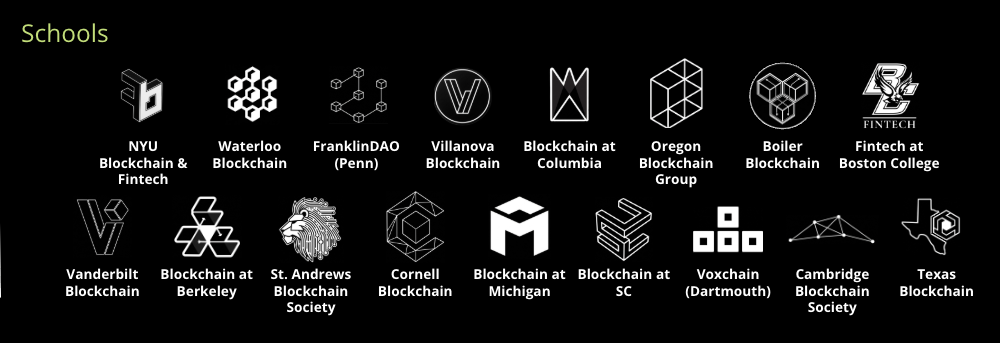
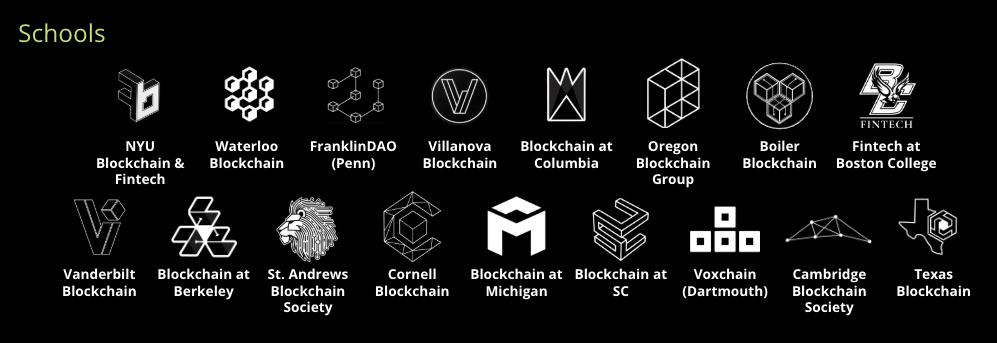
Fix distorted divider bars by removing divider bleed from group image crops
The source composite's original divider lines have a soft anti-aliased
glow ~9px wide; the previous crop boundaries sliced through that glow
instead of fully outside it, leaving a faint sliver of the (slightly
tilted) original divider baked into the edge of each group image right
next to the separate clean CSS divider bar. Re-cropped with a safety
margin clear of the glow on every edge (partners/members/schools now
209x343 / 617x343 / 997x343), so only the intentional straight CSS
divider renders.

diff --git a/components/LandingRevealBar.tsx b/components/LandingRevealBar.tsx
@@ -23,15 +23,17 @@ import { cn } from "@/lib/utils";
 // gets clipped equally off both edges instead of only the right (Schools)
 // side disappearing off-screen.
 //
-// Rendered at ~69% of each crop's native pixel size (originals: 213x343 /
-// 623x343 / 1000x343 — the schools crop was widened/heightened from the
-// previous version to make its logos and labels more readable) — full
-// native size read as too large/dominant on the page; this scale is what
-// matches the target look.
+// Rendered at ~69% of each crop's native pixel size (originals: 209x343 /
+// 617x343 / 997x343 — cropped with a safety margin around each divider's
+// soft glow in the source composite so no sliver of that glow bleeds into
+// a group image edge; it previously did, which is what made the separate
+// CSS divider bars next to it look distorted/doubled) — full native size
+// read as too large/dominant on the page; this scale is what matches the
+// target look.
 const GROUPS = [
-  { src: "/landing-reveal-partners.png", width: 147, height: 236, alt: "Partners" },
-  { src: "/landing-reveal-members.png", width: 429, height: 236, alt: "Members" },
-  { src: "/landing-reveal-schools.png", width: 688, height: 236, alt: "Schools" },
+  { src: "/landing-reveal-partners.png", width: 144, height: 236, alt: "Partners" },
+  { src: "/landing-reveal-members.png", width: 425, height: 236, alt: "Members" },
+  { src: "/landing-reveal-schools.png", width: 686, height: 236, alt: "Schools" },
 ];
 
 function Divider() {
